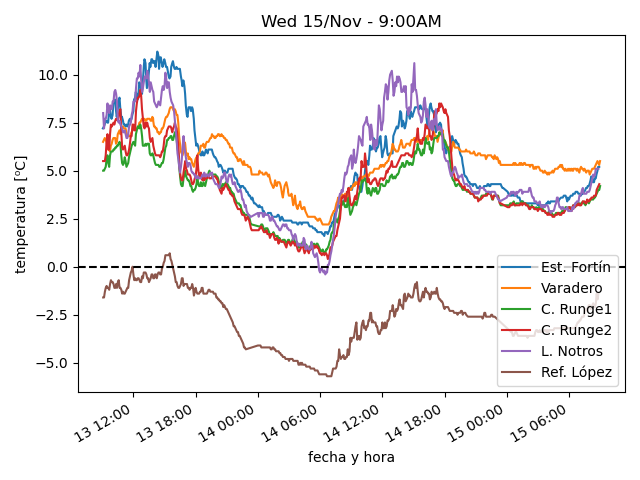
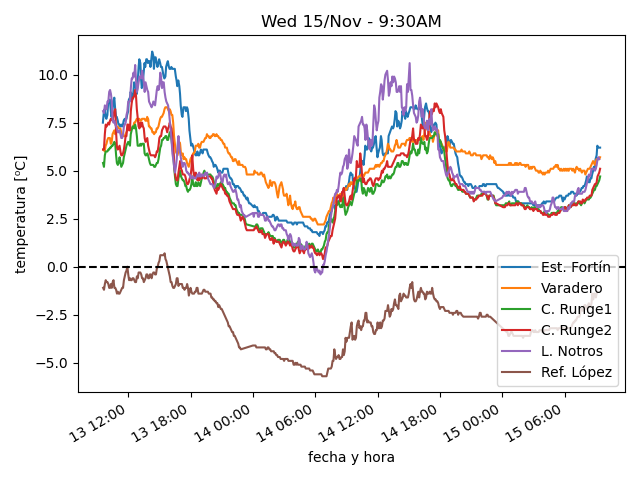
actualiza datos

diff --git a/estaciones/estacion4.html b/estaciones/estacion4.html
@@ -18,32 +18,32 @@
     </tr>
     <tr>
      <td class="stats_data">
-      8:54AM
+      9:24AM
      </td>
     </tr>
     <tr>
      <td class="stats_data">
-      4.3⁰C
+      5.1⁰C
      </td>
     </tr>
     <tr>
      <td class="stats_data">
-      0.6⁰C
+      0.8⁰C
      </td>
     </tr>
     <tr>
      <td class="stats_data">
-      77.3%
+      73.3%
      </td>
     </tr>
     <tr>
      <td class="stats_data">
-      1006.84hPa
+      1007.21hPa
      </td>
     </tr>
     <tr>
      <td class="stats_data">
-      6.9/10.9 km/hr SSW
+      7.4/11.9 km/hr SSW
      </td>
     </tr>
     <tr>
@@ -53,12 +53,12 @@
     </tr>
     <tr>
      <td class="stats_data">
-      2.0
+      3.0
      </td>
     </tr>
     <tr>
      <td class="stats_data">
-      236.5 W/m²
+      387.9 W/m²
      </td>
     </tr>
    </tbody>

diff --git a/estaciones/estacion3.html b/estaciones/estacion3.html
@@ -18,32 +18,32 @@
     </tr>
     <tr>
      <td class="stats_data">
-      8:59AM
+      9:24AM
      </td>
     </tr>
     <tr>
      <td class="stats_data">
-      4.2⁰C
+      4.7⁰C
      </td>
     </tr>
     <tr>
      <td class="stats_data">
-      1.1⁰C
+      1.3⁰C
      </td>
     </tr>
     <tr>
      <td class="stats_data">
-      80.7%
+      78.9%
      </td>
     </tr>
     <tr>
      <td class="stats_data">
-      998.04hPa
+      998.34hPa
      </td>
     </tr>
     <tr>
      <td class="stats_data">
-      19.4/30.7 km/hr NW
+      17.8/27.6 km/hr WNW
      </td>
     </tr>
     <tr>
@@ -53,12 +53,12 @@
     </tr>
     <tr>
      <td class="stats_data">
-      3.0
+      5.0
      </td>
     </tr>
     <tr>
      <td class="stats_data">
-      300.6 W/m²
+      507.1 W/m²
      </td>
     </tr>
    </tbody>

diff --git a/estaciones/estacion1.html b/estaciones/estacion1.html
@@ -18,22 +18,22 @@
     </tr>
     <tr>
      <td class="stats_data">
-      8:54AM
+      9:24AM
      </td>
     </tr>
     <tr>
      <td class="stats_data">
-      5.2⁰C
+      6.2⁰C
      </td>
     </tr>
     <tr>
      <td class="stats_data">
-      -1.0⁰C
+      -0.6⁰C
      </td>
     </tr>
     <tr>
      <td class="stats_data">
-      64.3%
+      61.7%
      </td>
     </tr>
     <tr>
@@ -43,7 +43,7 @@
     </tr>
     <tr>
      <td class="stats_data">
-      16.5/34.9 km/hr W
+      23.1/33.3 km/hr WNW
      </td>
     </tr>
     <tr>
@@ -53,12 +53,12 @@
     </tr>
     <tr>
      <td class="stats_data">
-      1.4
+      2.0
      </td>
     </tr>
     <tr>
      <td class="stats_data">
-      364.0 W/m²
+      564.0 W/m²
      </td>
     </tr>
    </tbody>

diff --git a/estaciones/estacion2.html b/estaciones/estacion2.html
@@ -18,22 +18,22 @@
     </tr>
     <tr>
      <td class="stats_data">
-      8:59AM
+      9:24AM
      </td>
     </tr>
     <tr>
      <td class="stats_data">
-      5.5⁰C
+      5.7⁰C
      </td>
     </tr>
     <tr>
      <td class="stats_data">
-      2.6⁰C
+      2.5⁰C
      </td>
     </tr>
     <tr>
      <td class="stats_data">
-      81.4%
+      80.5%
      </td>
     </tr>
     <tr>
@@ -43,7 +43,7 @@
     </tr>
     <tr>
      <td class="stats_data">
-      36.1/43.1 km/hr NW
+      42.6/50.8 km/hr NW
      </td>
     </tr>
     <tr>
@@ -53,12 +53,12 @@
     </tr>
     <tr>
      <td class="stats_data">
-      0.0
+      1.0
      </td>
     </tr>
     <tr>
      <td class="stats_data">
-      96.7 W/m²
+      150.5 W/m²
      </td>
     </tr>
    </tbody>

diff --git a/estaciones/estacion6.html b/estaciones/estacion6.html
@@ -18,17 +18,17 @@
     </tr>
     <tr>
      <td class="stats_data">
-      8:50AM
+      9:10AM
      </td>
     </tr>
     <tr>
      <td class="stats_data">
-      -1.4⁰C
+      -1.3⁰C
      </td>
     </tr>
     <tr>
      <td class="stats_data">
-      -3.0⁰C
+      -2.9⁰C
      </td>
     </tr>
     <tr>
@@ -38,12 +38,12 @@
     </tr>
     <tr>
      <td class="stats_data">
-      1011.31hPa
+      1011.18hPa
      </td>
     </tr>
     <tr>
      <td class="stats_data">
-      14.5/40.2 km/hr SE
+      8.0/24.1 km/hr N
      </td>
     </tr>
     <tr>
@@ -58,7 +58,7 @@
     </tr>
     <tr>
      <td class="stats_data">
-      909.0 W/m²
+      905.0 W/m²
      </td>
     </tr>
    </tbody>

diff --git a/estaciones/estacion5.html b/estaciones/estacion5.html
@@ -18,22 +18,22 @@
     </tr>
     <tr>
      <td class="stats_data">
-      8:50AM
+      9:20AM
      </td>
     </tr>
     <tr>
      <td class="stats_data">
-      5.1⁰C
+      5.6⁰C
      </td>
     </tr>
     <tr>
      <td class="stats_data">
-      0.4⁰C
+      0.6⁰C
      </td>
     </tr>
     <tr>
      <td class="stats_data">
-      72.0%
+      70.0%
      </td>
     </tr>
     <tr>
